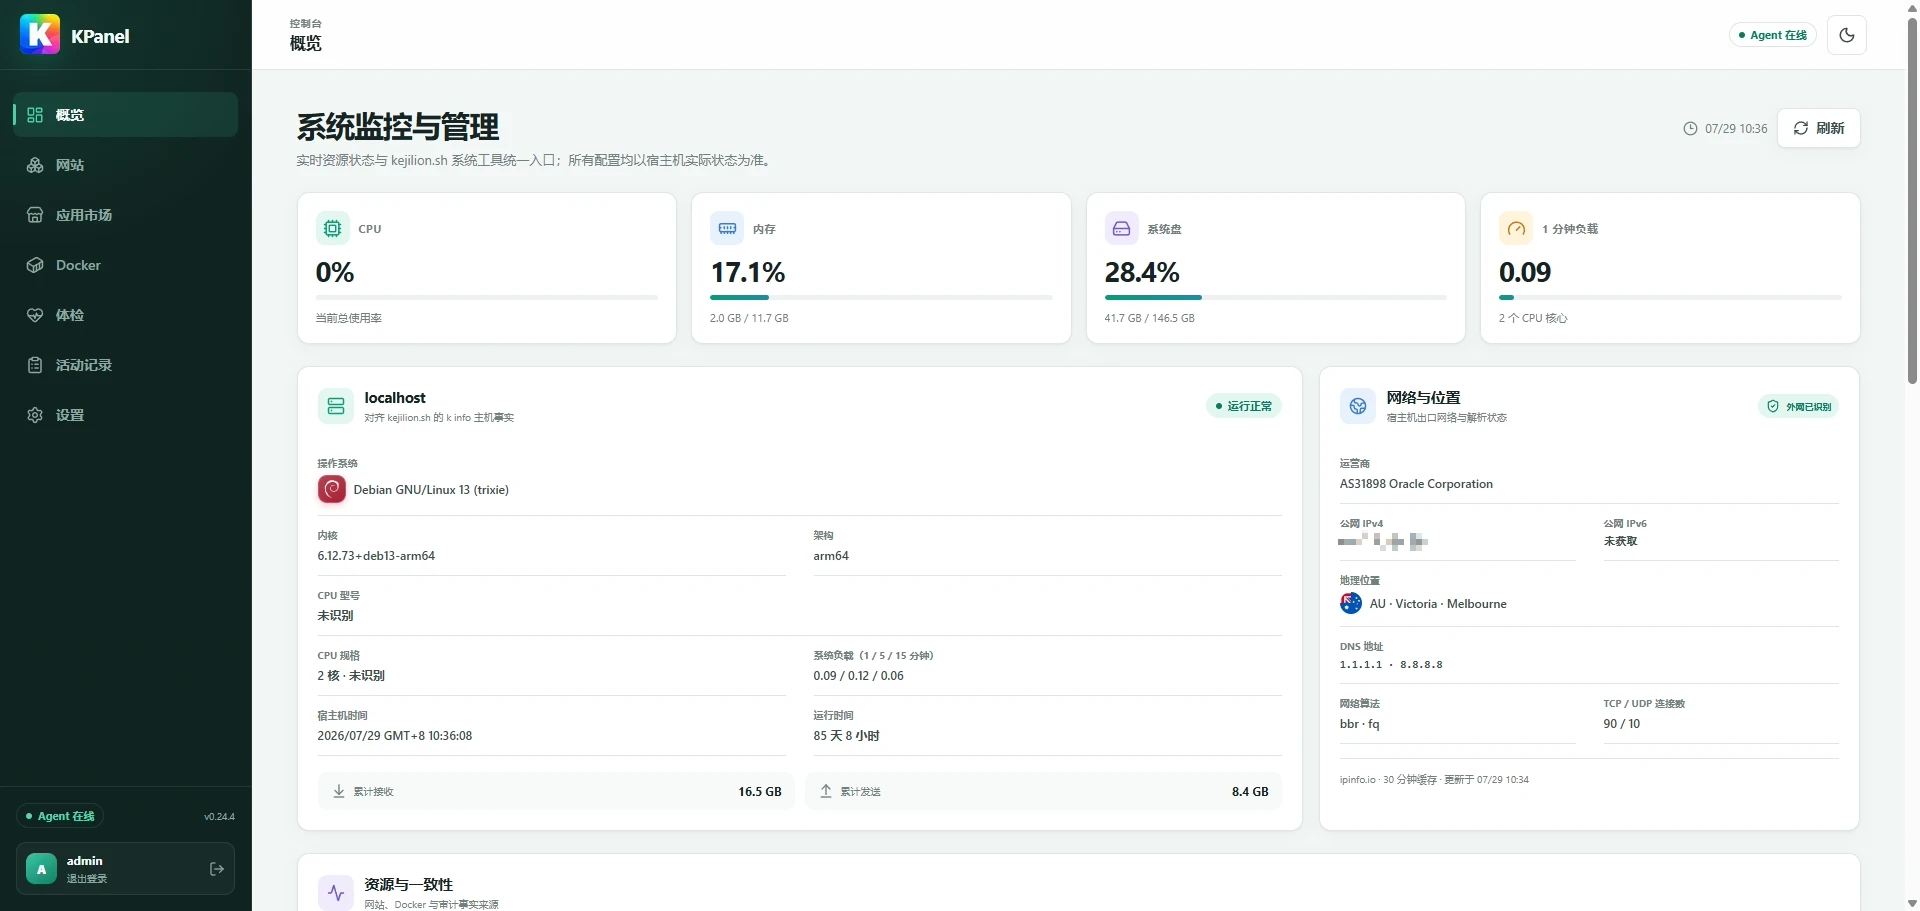
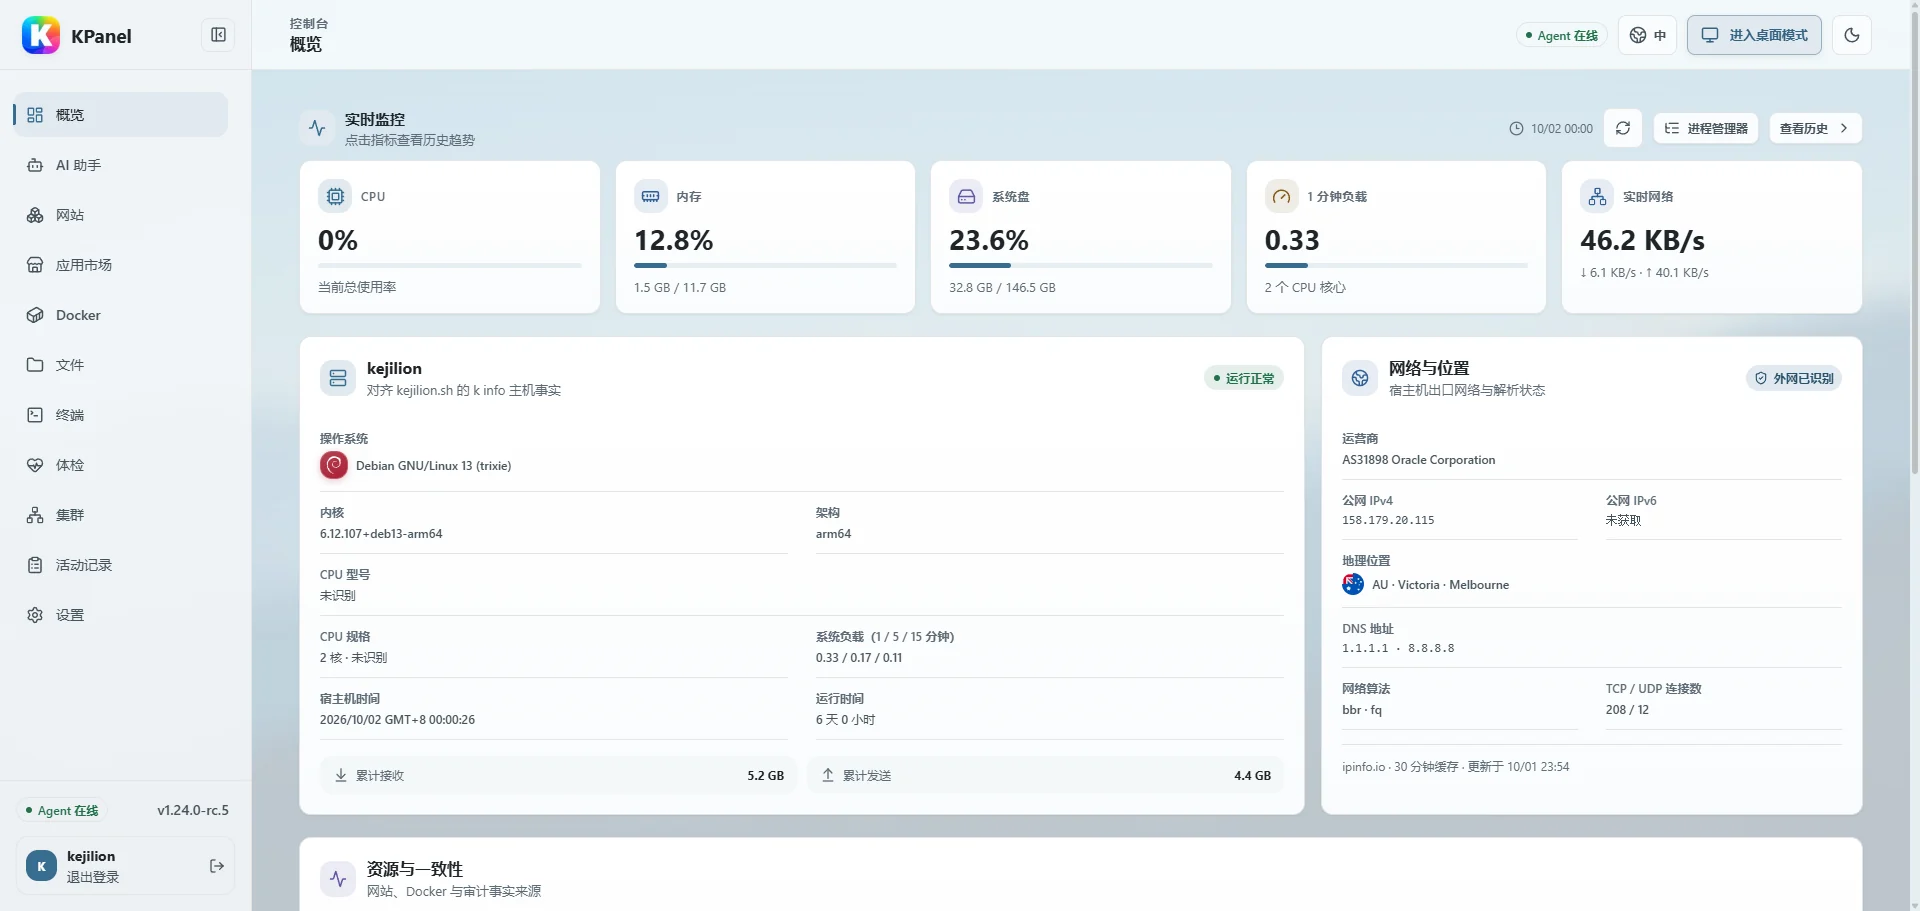
docs: refresh README product screenshots
Replace the outdated hero, desktop workspace, and classic overview with current product screenshots. Keep assets self-contained and align image descriptions.

OCR-Review: skipped reason=documentation-and-screenshot-assets-only

diff --git a/README.md b/README.md
@@ -35,7 +35,7 @@
 
 <p align="center">
   <a href="https://kpanel.kejilion.sh/">
-    <img src=".github/assets/readme/og-kpanel-v2.png" alt="KPanel — Linux operations, one control plane" width="100%">
+    <img src=".github/assets/readme/kpanel-desktop-home-dark.webp" alt="KPanel 深色桌面模式，展示应用入口、文件集合与服务器监控" width="100%">
   </a>
 </p>
 
@@ -83,7 +83,7 @@ KPanel 面向单管理员 Linux 服务器场景：从一台主机开始，在需
     <td>清晰侧栏、连续配置和快速巡检，保留传统服务器面板的效率。</td>
   </tr>
   <tr>
-    <td><a href=".github/assets/readme/kpanel-desktop-workspace.webp"><img src=".github/assets/readme/kpanel-desktop-workspace.webp" alt="KPanel 桌面模式中的服务器概览、终端与 AI 助手"></a></td>
+    <td><a href=".github/assets/readme/kpanel-desktop-workspace.webp"><img src=".github/assets/readme/kpanel-desktop-workspace.webp" alt="KPanel 桌面模式中的文件管理器、OpenCode 终端与 AI 助手"></a></td>
     <td><a href=".github/assets/screenshots/overview.webp"><img src=".github/assets/screenshots/overview.webp" alt="KPanel 经典模式服务器概览"></a></td>
   </tr>
 </table>
